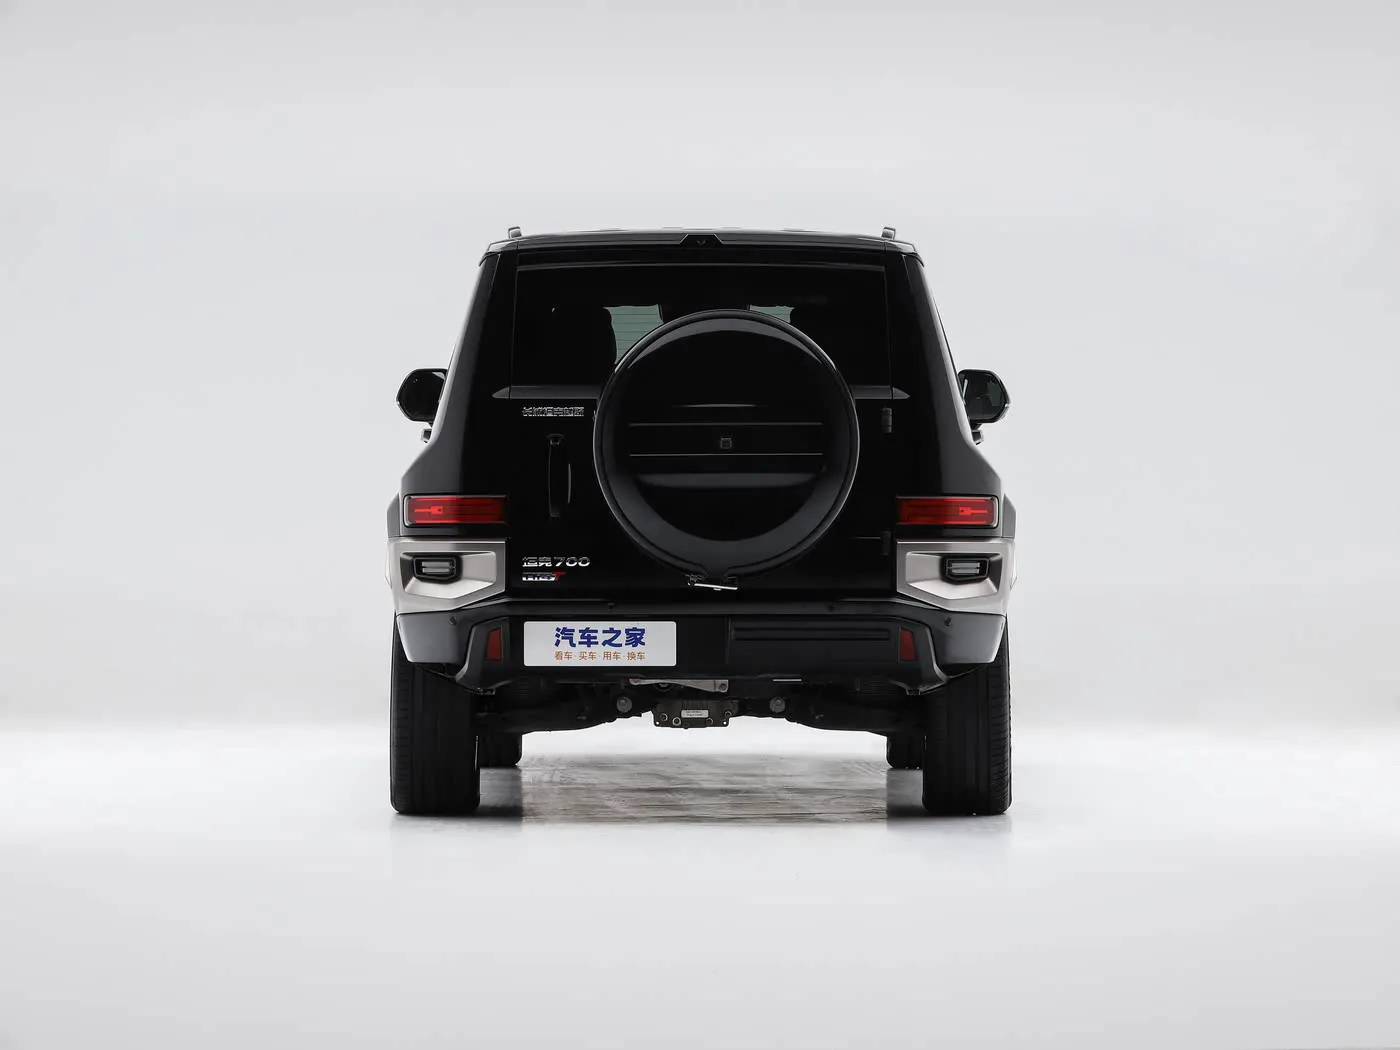
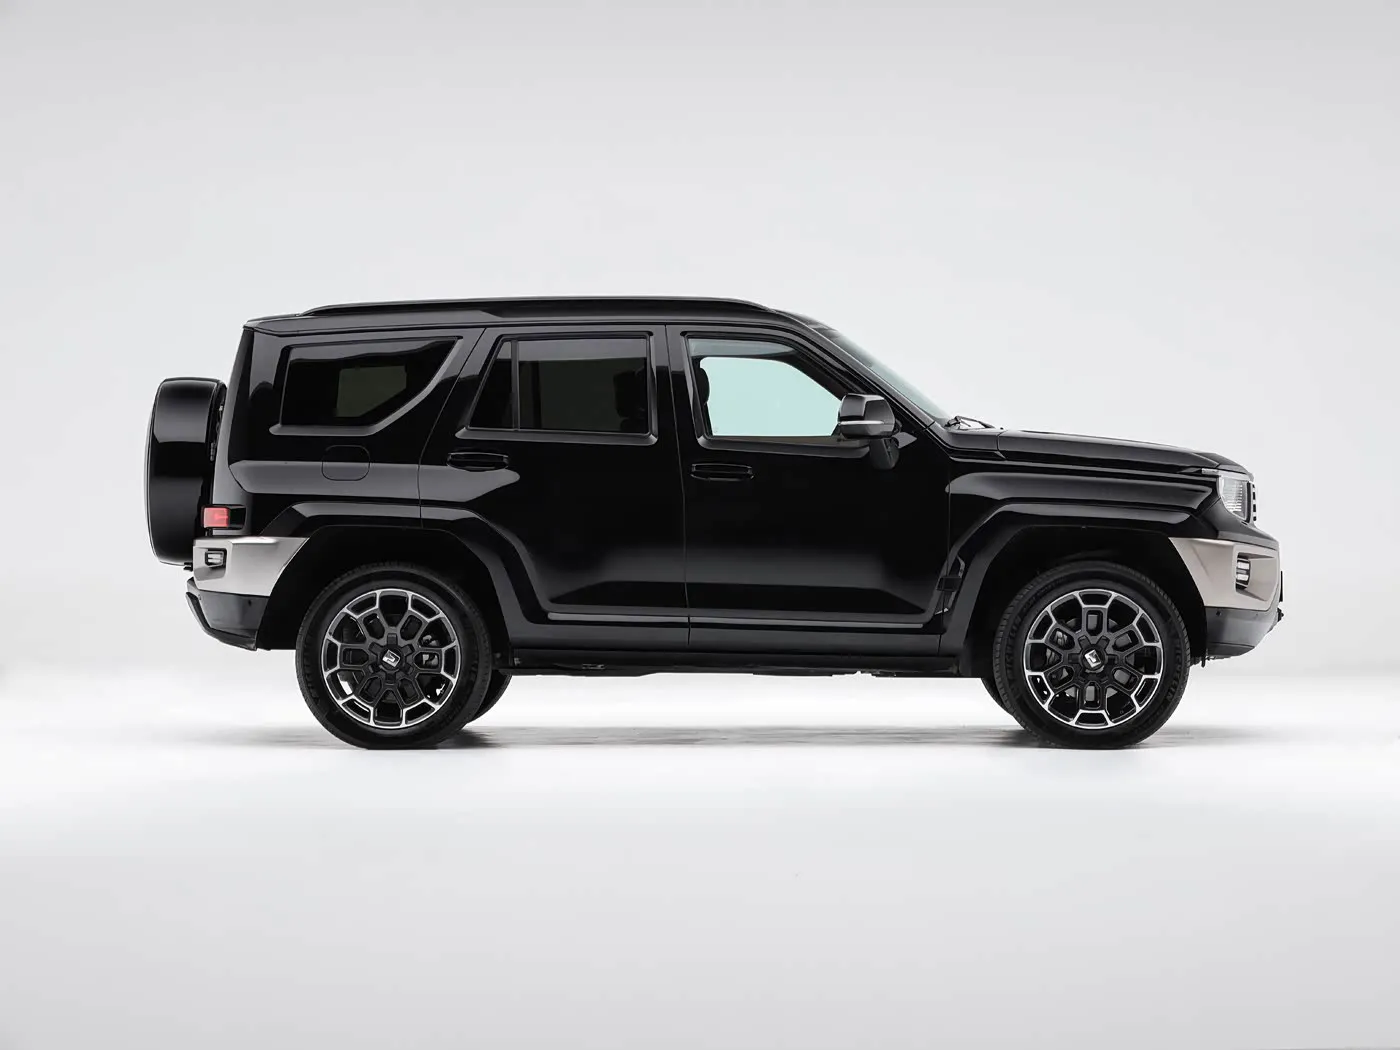
feat: real language switching (EN/FR/AR/ZH) + photo fixes
LANGUAGE SWITCHING — now actually works
- 39 translation keys across EN, FR, Arabic, Chinese
- Arabic enables RTL (dir=rtl on html element)
- All nav links, filter buttons, How It Works steps,
  CTA block, demo banner, sort options translated
- Hero h1 fully translated per language
- Vehicle card Quote/Details buttons translated
- setLang() re-renders grid so card buttons update instantly

PHOTO FIXES
- Tank 700 (v20): replaced 32KB tiny image with 44KB clear photo
- VW Passat (v06): replaced 729KB oversized with 166KB photo
- All 22 images validated as real WebP (not HTML error pages)

Changed region(s): [[0.0, 0.2133, 1.0, 0.8229]]

diff --git a/index.html b/index.html
@@ -346,10 +346,10 @@
     <input type="text" placeholder="Search BYD, Tesla, BMW, Mercedes…" id="navSearch">
   </div>
   <div class="nav-links">
-    <a class="nav-link" href="#inventory">Inventory</a>
-    <a class="nav-link" href="#how">Process</a>
-    <a class="nav-link" href="#routes">Routes</a>
-    <a class="nav-link" href="#">About</a>
+    <a class="nav-link" href="#inventory" data-i18n="nav_inventory">Inventory</a>
+    <a class="nav-link" href="#how" data-i18n="nav_process">Process</a>
+    <a class="nav-link" href="#routes" data-i18n="nav_routes">Routes</a>
+    <a class="nav-link" href="#" data-i18n="nav_about">About</a>
   </div>
   <div class="nav-lang">
     <button class="lang-btn active" onclick="setLang('EN',this)">EN</button>
@@ -366,8 +366,8 @@
 <main>
 <!-- ── DEMO BANNER ── -->
 <div style="background:rgba(76,175,80,0.07);border-bottom:1px solid rgba(76,175,80,0.15);padding:7px 24px;font-size:12px;color:var(--muted2);text-align:center;display:flex;align-items:center;justify-content:center;gap:8px;flex-wrap:wrap;">
-  <span>📋 <strong style="color:var(--green2)">Demo Site</strong> — Sample inventory for illustration purposes.</span>
-  <a onclick="openWA('Hi New Vision, I want to see your full available stock list. Please send details.')" style="color:var(--green);cursor:pointer;text-decoration:underline;font-weight:600;">Contact us on WhatsApp for live stock & pricing →</a>
+  <span>📋 <strong style="color:var(--green2)" data-i18n="demo_label">Demo Site</strong> — <span data-i18n="demo_notice">Sample inventory for illustration purposes.</span></span>
+  <a onclick="openWA('Hi New Vision, I want to see your full available stock list. Please send details.')" style="color:var(--green);cursor:pointer;text-decoration:underline;font-weight:600;" data-i18n="demo_cta">Contact us on WhatsApp for live stock & pricing →</a>
 </div>
 
 <!-- ── HERO ── -->
@@ -397,9 +397,9 @@
     <div class="hero-logo-zh">新 &nbsp; 视 &nbsp; 界</div>
   </div>
 
-  <div class="hero-badge">🚗 Live Inventory — 3,200+ vehicles ready for export</div>
-  <h1>Buy Cars <span>Direct from China</span><br>Delivered to Your Country</h1>
-  <p class="hero-sub">Focusing on green and smart travel since 2019. Full-chain export solutions — BYD, Tesla, BMW, Mercedes, Li Auto, MAEXTRO and 16+ brands.</p>
+  <div class="hero-badge">🚗 <span data-i18n="hero_badge">Live Inventory — 3,200+ vehicles ready for export</span></div>
+  <h1 data-i18n-html="hero_h1">Buy Cars <span>Direct from China</span><br>Delivered to Your Country</h1>
+  <p class="hero-sub" data-i18n="hero_sub">Focusing on green and smart travel since 2019. Full-chain export solutions — BYD, Tesla, BMW, Mercedes, Li Auto, MAEXTRO and 16+ brands.</p>
 
   <div class="hero-search">
     <select id="heroMake" aria-label="Filter by brand" onchange="applyFilters()">
@@ -514,20 +514,20 @@
       <div class="section-sub">FOB Shanghai pricing · 180-day export eligible · Sample inventory — contact for live stock</div>
     </div>
     <select class="filter-select" id="sortBy" aria-label="Sort vehicles" onchange="applyFilters()">
-      <option value="latest">Latest Arrivals</option>
-      <option value="price-asc">Price: Low → High</option>
-      <option value="price-desc">Price: High → Low</option>
-      <option value="mileage">Lowest Mileage</option>
+      <option value="latest" data-i18n="sort_latest">Latest Arrivals</option>
+      <option value="price-asc" data-i18n="sort_price_asc">Price: Low → High</option>
+      <option value="price-desc" data-i18n="sort_price_desc">Price: High → Low</option>
+      <option value="mileage" data-i18n="sort_mileage">Lowest Mileage</option>
     </select>
   </div>
 
   <div class="filters" id="filterBar">
-    <button class="filter-btn active" onclick="setTypeFilter('all',this)">All</button>
-    <button class="filter-btn" onclick="setTypeFilter('EV',this)">⚡ New Energy</button>
-    <button class="filter-btn" onclick="setTypeFilter('SUV',this)">SUV</button>
-    <button class="filter-btn" onclick="setTypeFilter('Sedan',this)">Sedan</button>
-    <button class="filter-btn" onclick="setTypeFilter('Premium',this)">Premium</button>
-    <button class="filter-btn" onclick="setTypeFilter('New',this)">Brand New</button>
+    <button class="filter-btn active" onclick="setTypeFilter('all',this)" data-i18n="filter_all">All</button>
+    <button class="filter-btn" onclick="setTypeFilter('EV',this)" data-i18n="filter_ev">⚡ New Energy</button>
+    <button class="filter-btn" onclick="setTypeFilter('SUV',this)" data-i18n="filter_suv">SUV</button>
+    <button class="filter-btn" onclick="setTypeFilter('Sedan',this)" data-i18n="filter_sedan">Sedan</button>
+    <button class="filter-btn" onclick="setTypeFilter('Premium',this)" data-i18n="filter_premium">Premium</button>
+    <button class="filter-btn" onclick="setTypeFilter('New',this)" data-i18n="filter_new">Brand New</button>
     <button class="filter-btn" onclick="setPriceFilter('under15k',this)">Under $15K</button>
     <button class="filter-btn" onclick="setPriceFilter('15k-30k',this)">$15K–$30K</button>
     <button class="filter-btn" onclick="setPriceFilter('over30k',this)">$30K+</button>
@@ -563,11 +563,11 @@
       <div style="font-size:13px;color:var(--muted2)">Shanghai to your port in 15–35 days</div>
     </div>
     <div class="steps">
-      <div class="step"><div class="step-num">1</div><h3>Browse & Select</h3><p>Search 3,200+ vehicles by brand, type, budget</p></div>
-      <div class="step"><div class="step-num">2</div><h3>Get Your Quote</h3><p>FOB + CIF estimate to your port within 2 hours via WhatsApp</p></div>
-      <div class="step"><div class="step-num">3</div><h3>Inspection</h3><p>Optional 200-point third-party report. Approve before paying</p></div>
-      <div class="step"><div class="step-num">4</div><h3>Export & Ship</h3><p>We handle customs, MOFCOM docs, vessel booking, loading</p></div>
-      <div class="step"><div class="step-num">5</div><h3>Track & Receive</h3><p>Live tracking + full documents (B/L, CoO, customs) at delivery</p></div>
+      <div class="step"><div class="step-num">1</div><h3 data-i18n="step1_h">Browse & Select</h3><p data-i18n="step1_p">Search 3,200+ vehicles by brand, type, budget</p></div>
+      <div class="step"><div class="step-num">2</div><h3 data-i18n="step2_h">Get Your Quote</h3><p data-i18n="step2_p">FOB + CIF estimate to your port within 2 hours via WhatsApp</p></div>
+      <div class="step"><div class="step-num">3</div><h3 data-i18n="step3_h">Inspection</h3><p data-i18n="step3_p">Optional 200-point third-party report. Approve before paying</p></div>
+      <div class="step"><div class="step-num">4</div><h3 data-i18n="step4_h">Export & Ship</h3><p data-i18n="step4_p">We handle customs, MOFCOM docs, vessel booking, loading</p></div>
+      <div class="step"><div class="step-num">5</div><h3 data-i18n="step5_h">Track & Receive</h3><p data-i18n="step5_p">Live tracking + full documents (B/L, CoO, customs) at delivery</p></div>
     </div>
   </section>
 </div>
@@ -615,8 +615,8 @@
 <section>
   <div class="cta-block">
     <div class="cta-text">
-      <h2>Ready to import? Get your quote in 2 hours.</h2>
-      <p>Tell us the model, quantity, and destination port. We respond on WhatsApp with FOB price, CIF estimate, and inspection options. No commitment required.</p>
+      <h2 data-i18n="cta_h">Ready to import? Get your quote in 2 hours.</h2>
+      <p data-i18n="cta_p">Tell us the model, quantity, and destination port. We respond on WhatsApp with FOB price, CIF estimate, and inspection options. No commitment required.</p>
     </div>
     <div class="cta-actions">
       <button class="btn-lg btn-green" onclick="openWA('Hi New Vision team, I want to import cars from China. Please send me pricing and available stock.')">
@@ -758,6 +758,95 @@
 <div class="toast" id="toast"><span>✅</span><span id="toastMsg"></span></div>
 
 <script>
+// ── TRANSLATIONS ─────────────────────────────────────────────────────────────
+const T = {
+  EN: {
+    nav_inventory:'Inventory', nav_process:'Process', nav_routes:'Routes', nav_about:'About',
+    demo_label:'Demo Site', demo_notice:'Sample inventory for illustration purposes.',
+    demo_cta:'Contact us on WhatsApp for live stock & pricing →',
+    hero_badge:'Live Inventory — 3,200+ vehicles ready for export',
+    hero_h1:'Buy Cars <span>Direct from China</span><br>Delivered to Your Country',
+    hero_sub:'Focusing on green and smart travel since 2019. Full-chain export solutions — BYD, Tesla, BMW, Mercedes, Li Auto, MAEXTRO and 16+ brands.',
+    filter_all:'All', filter_ev:'⚡ New Energy', filter_suv:'SUV', filter_sedan:'Sedan', filter_premium:'Premium', filter_new:'Brand New',
+    sort_latest:'Latest Arrivals', sort_price_asc:'Price: Low → High', sort_price_desc:'Price: High → Low', sort_mileage:'Lowest Mileage',
+    step1_h:'Browse & Select', step1_p:'Search 3,200+ vehicles by brand, type, budget',
+    step2_h:'Get Your Quote', step2_p:'FOB + CIF estimate to your port within 2 hours via WhatsApp',
+    step3_h:'Inspection', step3_p:'Optional 200-point third-party report. Approve before paying',
+    step4_h:'Export & Ship', step4_p:'We handle customs, MOFCOM docs, vessel booking, loading',
+    step5_h:'Track & Receive', step5_p:'Live tracking + full documents (B/L, CoO, customs) at delivery',
+    cta_h:'Ready to import? Get your quote in 2 hours.',
+    cta_p:'Tell us the model, quantity, and destination port. We respond on WhatsApp with FOB price, CIF estimate, and inspection options. No commitment required.',
+    card_quote:'Quote →', card_details:'Details', fob:'FOB', cif_prefix:'CIF ~',
+    wa_generic:'Hi New Vision, I want to buy a car from China. Please help me.',
+    wa_stock:'Hi New Vision, I want to see your full available stock list. Please send details.',
+    dir:'ltr'
+  },
+  FR: {
+    nav_inventory:'Inventaire', nav_process:'Processus', nav_routes:'Routes', nav_about:'À propos',
+    demo_label:'Site Démo', demo_notice:'Inventaire d\'exemple à titre illustratif.',
+    demo_cta:'Contactez-nous sur WhatsApp pour le stock réel →',
+    hero_badge:'Stock en ligne — 3 200+ véhicules disponibles à l\'export',
+    hero_h1:'Achetez des voitures <span>Directement de Chine</span><br>Livrées dans votre pays',
+    hero_sub:'Spécialiste de la mobilité verte depuis 2019. Solutions d\'export complètes — BYD, Tesla, BMW, Mercedes, Li Auto, MAEXTRO et 16+ marques.',
+    filter_all:'Tous', filter_ev:'⚡ Électrique', filter_suv:'SUV', filter_sedan:'Berline', filter_premium:'Premium', filter_new:'Neuf',
+    sort_latest:'Dernières arrivées', sort_price_asc:'Prix croissant', sort_price_desc:'Prix décroissant', sort_mileage:'Kilométrage min.',
+    step1_h:'Parcourir & Choisir', step1_p:'Rechercher parmi 3 200+ véhicules par marque, type, budget',
+    step2_h:'Obtenir un devis', step2_p:'Estimation FOB + CIF vers votre port sous 2h via WhatsApp',
+    step3_h:'Inspection', step3_p:'Rapport d\'inspection optionnel 200 points. Approuvez avant de payer',
+    step4_h:'Export & Expédition', step4_p:'Nous gérons la douane, documents MOFCOM, réservation navire',
+    step5_h:'Suivre & Recevoir', step5_p:'Suivi en direct + documents complets (B/L, CoO, douane) à livraison',
+    cta_h:'Prêt à importer ? Devis en 2 heures.',
+    cta_p:'Indiquez le modèle, la quantité et le port de destination. Nous répondons sur WhatsApp avec le prix FOB, l\'estimation CIF et les options d\'inspection.',
+    card_quote:'Devis →', card_details:'Détails', fob:'FOB', cif_prefix:'CIF ~',
+    wa_generic:'Bonjour New Vision, je voudrais acheter une voiture de Chine. Pouvez-vous m\'aider ?',
+    wa_stock:'Bonjour New Vision, je voudrais voir votre liste de stock disponible. Envoyez-moi les détails.',
+    dir:'ltr'
+  },
+  AR: {
+    nav_inventory:'المخزون', nav_process:'العملية', nav_routes:'المسارات', nav_about:'عن الشركة',
+    demo_label:'موقع تجريبي', demo_notice:'مخزون نموذجي للتوضيح.',
+    demo_cta:'تواصل معنا عبر واتساب للمخزون الحقيقي →',
+    hero_badge:'مخزون مباشر — أكثر من 3,200 مركبة جاهزة للتصدير',
+    hero_h1:'اشتر سيارات <span>مباشرة من الصين</span><br>توصيل إلى بلدك',
+    hero_sub:'متخصصون في التنقل الأخضر منذ 2019. حلول تصدير متكاملة — BYD، تسلا، BMW، مرسيدس، لي أوتو، MAEXTRO و16+ علامة.',
+    filter_all:'الكل', filter_ev:'⚡ طاقة جديدة', filter_suv:'SUV', filter_sedan:'سيدان', filter_premium:'فاخر', filter_new:'جديد',
+    sort_latest:'أحدث الواردات', sort_price_asc:'السعر: الأقل أولاً', sort_price_desc:'السعر: الأعلى أولاً', sort_mileage:'أقل عداد',
+    step1_h:'تصفح واختر', step1_p:'ابحث في 3,200+ مركبة حسب العلامة والنوع والميزانية',
+    step2_h:'احصل على عرض', step2_p:'تقدير FOB + CIF لميناؤك خلال ساعتين عبر واتساب',
+    step3_h:'الفحص', step3_p:'تقرير فحص اختياري 200 نقطة. وافق قبل الدفع',
+    step4_h:'التصدير والشحن', step4_p:'نتولى الجمارك ووثائق MOFCOM وحجز السفينة',
+    step5_h:'التتبع والاستلام', step5_p:'تتبع مباشر + وثائق كاملة عند التسليم',
+    cta_h:'هل أنت مستعد للاستيراد؟ احصل على عرضك في ساعتين.',
+    cta_p:'أخبرنا بالموديل والكمية وميناء الوجهة. سنرد عبر واتساب بسعر FOB وتقدير CIF وخيارات الفحص. لا التزام مطلوب.',
+    card_quote:'عرض ←', card_details:'التفاصيل', fob:'FOB', cif_prefix:'CIF ~',
+    wa_generic:'مرحباً New Vision، أريد شراء سيارة من الصين. هل يمكنك مساعدتي؟',
+    wa_stock:'مرحباً New Vision، أريد رؤية قائمة المخزون الكامل. يرجى إرسال التفاصيل.',
+    dir:'rtl'
+  },
+  ZH: {
+    nav_inventory:'车辆库存', nav_process:'购车流程', nav_routes:'航运路线', nav_about:'关于我们',
+    demo_label:'演示网站', demo_notice:'示例库存，仅供参考。',
+    demo_cta:'请通过WhatsApp联系我们获取实时库存 →',
+    hero_badge:'实时库存 — 3,200+辆车随时可出口',
+    hero_h1:'直接从中国<span>购买汽车</span><br>送达您的国家',
+    hero_sub:'专注绿色智慧出行，自2019年起提供全链条新能源汽车出口服务——比亚迪、特斯拉、宝马、奔驰、理想及16+品牌。',
+    filter_all:'全部', filter_ev:'⚡ 新能源', filter_suv:'SUV', filter_sedan:'轿车', filter_premium:'豪华', filter_new:'新车',
+    sort_latest:'最新到港', sort_price_asc:'价格从低到高', sort_price_desc:'价格从高到低', sort_mileage:'最低里程',
+    step1_h:'浏览选车', step1_p:'按品牌、类型、预算搜索3,200+辆车',
+    step2_h:'获取报价', step2_p:'2小时内通过WhatsApp提供FOB+CIF到港报价',
+    step3_h:'验车检测', step3_p:'可选200点第三方检测报告，确认后再付款',
+    step4_h:'出口发运', step4_p:'我们处理海关、商务部文件、订舱及装船',
+    step5_h:'跟踪收货', step5_p:'实时跟踪+交付时提供完整单据（提单、原产地证等）',
+    cta_h:'准备进口？2小时内获取报价。',
+    cta_p:'告诉我们车型、数量和目的港，我们将通过WhatsApp回复FOB价格、CIF估算及检测方案，无需承诺。',
+    card_quote:'询价 →', card_details:'详情', fob:'离岸价', cif_prefix:'到岸约',
+    wa_generic:'您好，新视界，我想从中国购车，请帮助我。',
+    wa_stock:'您好，新视界，我想了解您的完整库存清单，请发送详情。',
+    dir:'ltr'
+  }
+};
+let lang = 'EN';
+
 // ── VEHICLE DATA — sourced from nvncar.com ────────────────────────────────────
 const vehicles = [
   { id:1,  make:'Tesla',         model:'Model Y L 2026 Standard Range',              year:2026, mileage:0,     condition:'New',  type:'EV',      fuel:'Electric', body:'SUV',       price:28900, emoji:'🚗', img:'img/v01-tesla.webp',      ev:true,  hot:true,  premium:true,  trans:'1-Speed Auto', engine:'250kW Dual Motor', drive:'AWD', doors:4, seats:6, range_km:751  },
@@ -810,8 +899,8 @@ function buildCard(v, idx) {
         <div class="vehicle-cif">CIF ~${fmt(v.price+850+180)}</div>
       </div>
       <div class="vehicle-actions">
-        <button class="btn-primary" onclick="event.stopPropagation();openWA('Hi New Vision, I am interested in: ${v.year} ${v.make} ${v.model} at FOB ${fmt(v.price)}. Please send me a quote.')">Quote →</button>
-        <button class="btn-secondary" onclick="event.stopPropagation();openModal(${v.id})">Details</button>
+        <button class="btn-primary" onclick="event.stopPropagation();openWA('Hi New Vision, I am interested in: ${v.year} ${v.make} ${v.model} at FOB ${fmt(v.price)}. Please send a quote.')">${(T[lang]||T.EN).card_quote}</button>
+        <button class="btn-secondary" onclick="event.stopPropagation();openModal(${v.id})">${(T[lang]||T.EN).card_details}</button>
       </div>
     </div>
   </div>`;
@@ -950,11 +1039,31 @@ function showToast(msg) {
   const t=document.getElementById('toast'); document.getElementById('toastMsg').textContent=msg;
   t.classList.add('show'); setTimeout(()=>t.classList.remove('show'),3200);
 }
-function setLang(lang,btn) {
-  document.querySelectorAll('.lang-btn').forEach(b=>b.classList.remove('active')); btn.classList.add('active');
-  if(lang==='AR') showToast('🌐 Arabic version coming soon — WhatsApp us for Arabic support');
-  if(lang==='FR') showToast('🌐 Version française bientôt — contactez-nous sur WhatsApp');
-  if(lang==='ZH') showToast('🌐 中文版即将上线 — 请通过微信联系我们');
+function setLang(l, btn) {
+  lang = l;
+  const t = T[l] || T.EN;
+  document.querySelectorAll('.lang-btn').forEach(b => b.classList.remove('active'));
+  btn.classList.add('active');
+  // Direction
+  document.documentElement.dir = t.dir;
+  document.documentElement.lang = l.toLowerCase();
+  // Translate all data-i18n text elements
+  document.querySelectorAll('[data-i18n]').forEach(el => {
+    const key = el.getAttribute('data-i18n');
+    if (t[key] !== undefined) el.textContent = t[key];
+  });
+  // Translate data-i18n-html elements (preserves inner HTML / spans)
+  document.querySelectorAll('[data-i18n-html]').forEach(el => {
+    const key = el.getAttribute('data-i18n-html');
+    if (t[key] !== undefined) el.innerHTML = t[key];
+  });
+  // Translate select options
+  document.querySelectorAll('option[data-i18n]').forEach(el => {
+    const key = el.getAttribute('data-i18n');
+    if (t[key] !== undefined) el.textContent = t[key];
+  });
+  // Re-render grid so card buttons use new language
+  applyFilters();
 }
 
 // ── COUNTER ANIM ─────────────────────────────────────────────────────────